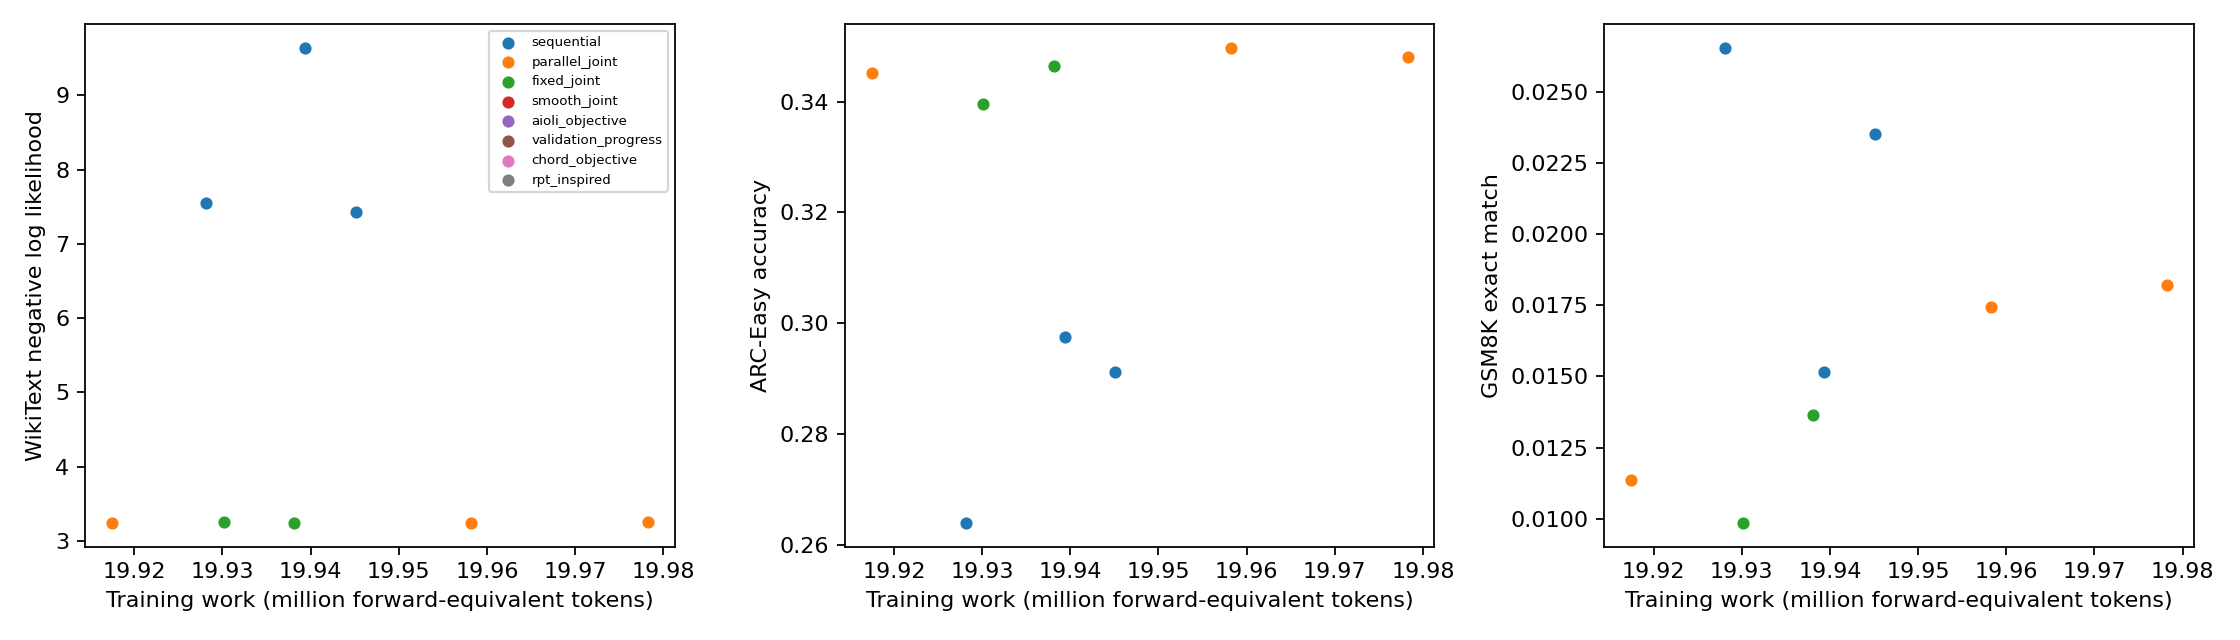
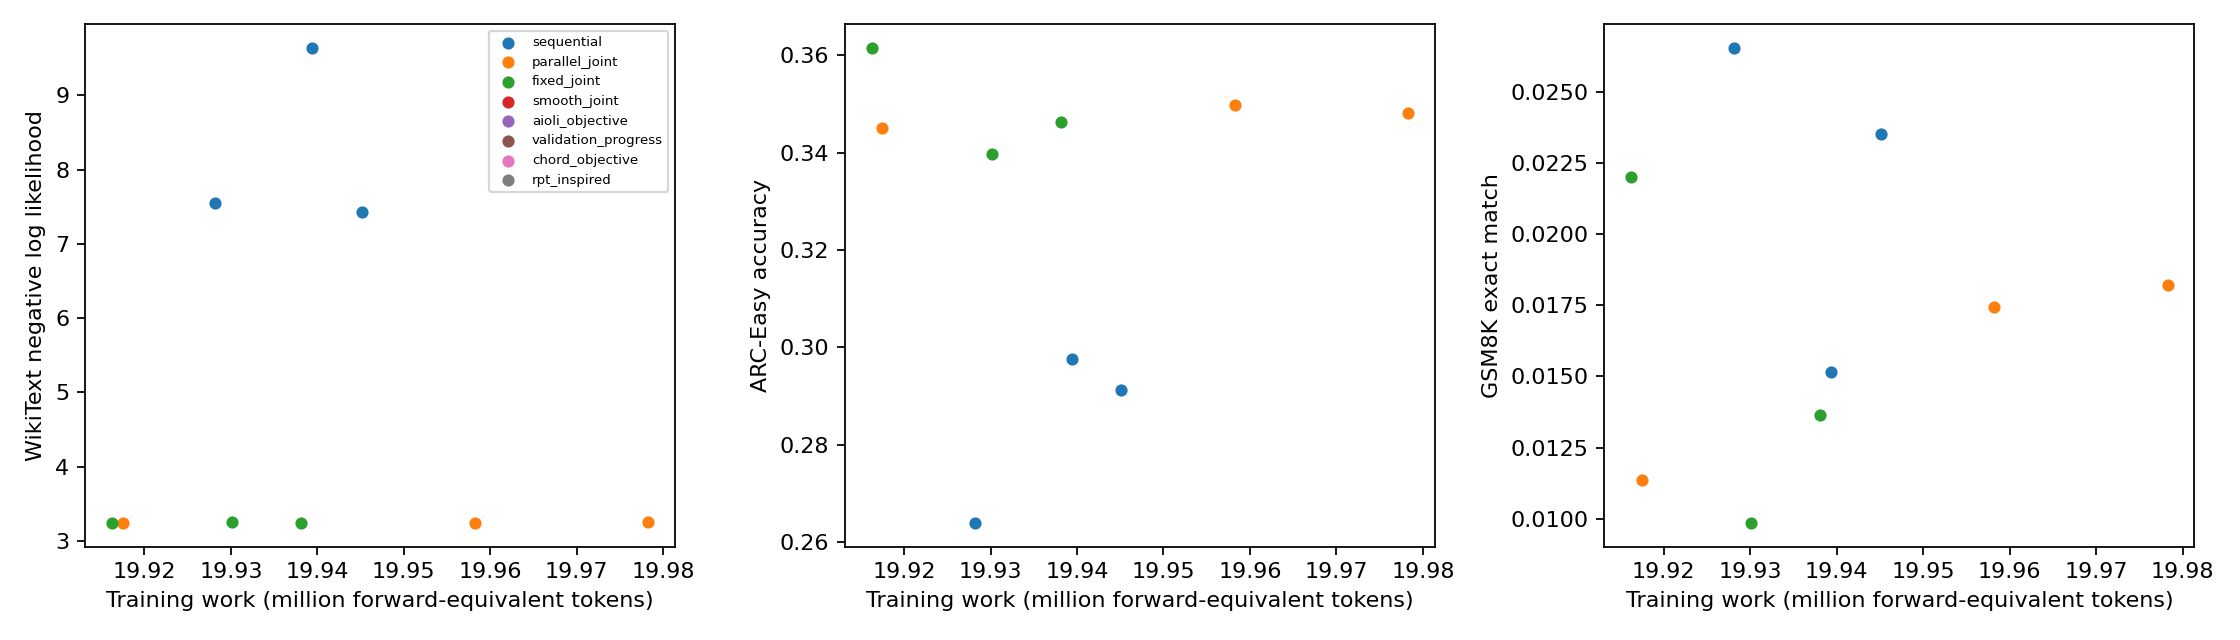
Report verified unified-training pilot progress

diff --git a/experiments/02_early_checkpoint_joint_objectives/results.md b/experiments/02_early_checkpoint_joint_objectives/results.md
@@ -12,7 +12,7 @@
 | parallel_joint | 2 | complete | 19.958 | 0.3497 [0.3308, 0.3692] | 0.0174 [0.0116, 0.0260] | 3.2424 [3.2127, 3.2711] | 0.5859 [0.5248, 0.6446] / 0.4688 [0.4085, 0.5299] |
 | fixed_joint | 0 | complete | 19.938 | 0.3464 [0.3275, 0.3657] | 0.0136 [0.0086, 0.0215] | 3.2422 [3.2119, 3.2719] | 0.6055 [0.5445, 0.6634] / 0.5039 [0.4431, 0.5646] |
 | fixed_joint | 1 | complete | 19.930 | 0.3396 [0.3209, 0.3589] | 0.0099 [0.0058, 0.0168] | 3.2500 [3.2201, 3.2790] | 0.5898 [0.5287, 0.6483] / 0.5117 [0.4508, 0.5723] |
-| fixed_joint | 2 | pending | unavailable | unavailable | unavailable | unavailable | unavailable |
+| fixed_joint | 2 | complete | 19.916 | 0.3615 [0.3425, 0.3811] | 0.0220 [0.0154, 0.0314] | 3.2466 [3.2157, 3.2756] | 0.5977 [0.5366, 0.6559] / 0.5469 [0.4857, 0.6067] |
 | smooth_joint | 0 | pending | unavailable | unavailable | unavailable | unavailable | unavailable |
 | smooth_joint | 1 | pending | unavailable | unavailable | unavailable | unavailable | unavailable |
 | smooth_joint | 2 | pending | unavailable | unavailable | unavailable | unavailable | unavailable |
@@ -33,7 +33,7 @@ NLL = negative log likelihood; preference raw ordering is the preference endpoin
 
 Intervals: 95% Wilson binary-item score, conditional on each trained model; p-val=n/a (no hypothesis test). Three seeds do not establish universal superiority. Aioli, CHORD (Controllable Harmonization of On- and Off-Policy Reinforcement Learning via Dynamic Weighting), and RPT (Reinforcement Pre-Training) are declared adaptations; exact CHERRY-RL identity remains unresolved.
 
-Complete: 8/24. See `expt_v1/PROTOCOL.md` and the program review reconciliation.
+Complete: 9/24. See `expt_v1/PROTOCOL.md` and the program review reconciliation.
 
 Seed uncertainty, two-stage seed/item intervals, initial-checkpoint changes and all paired comparisons: `expt_v1/analysis.json`. Missing trained seeds remain missing with separate accuracy sensitivity bounds. p-val=n/a throughout; no formal superiority verdict.
 

diff --git a/experiments/00_program/FINAL_STATUS.md b/experiments/00_program/FINAL_STATUS.md
@@ -1,6 +1,6 @@
 # Full-program status
 
-Verified cells: 32/48; failed: 0; interrupted: 0; pending: 16; unstarted at global bound: 0.
+Verified cells: 33/48; failed: 0; interrupted: 0; pending: 15; unstarted at global bound: 0.
 
 Full-program execution is incomplete. Required plan and implementation findings are reconciled; see acceptance.json.
 Results and uncertainty are in each experiment folder; no universal-superiority claim.
